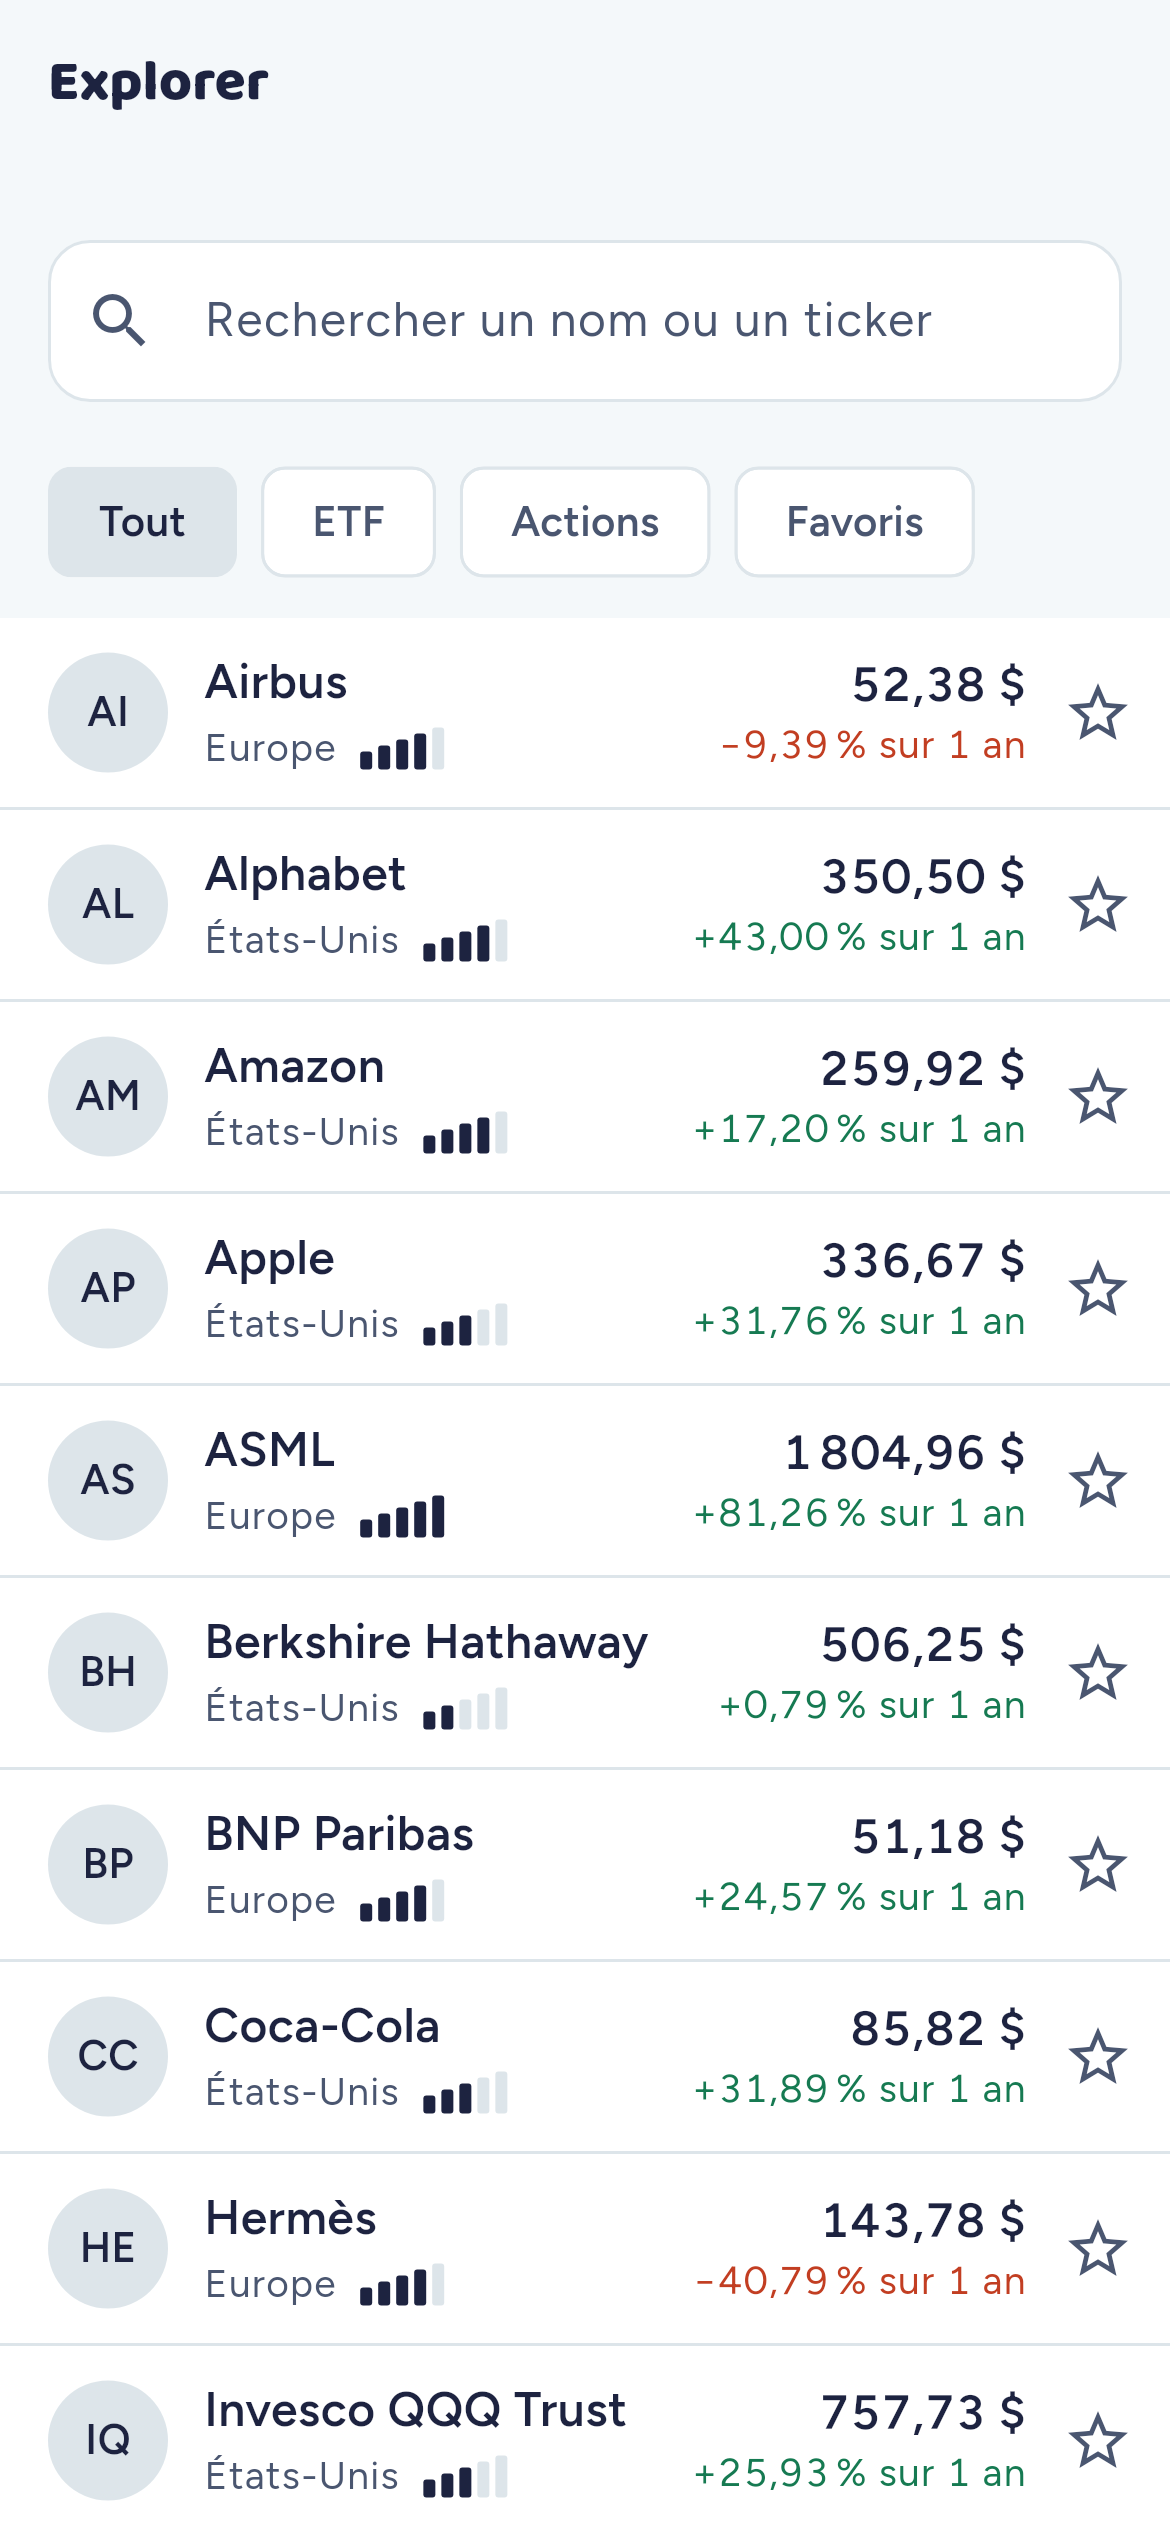
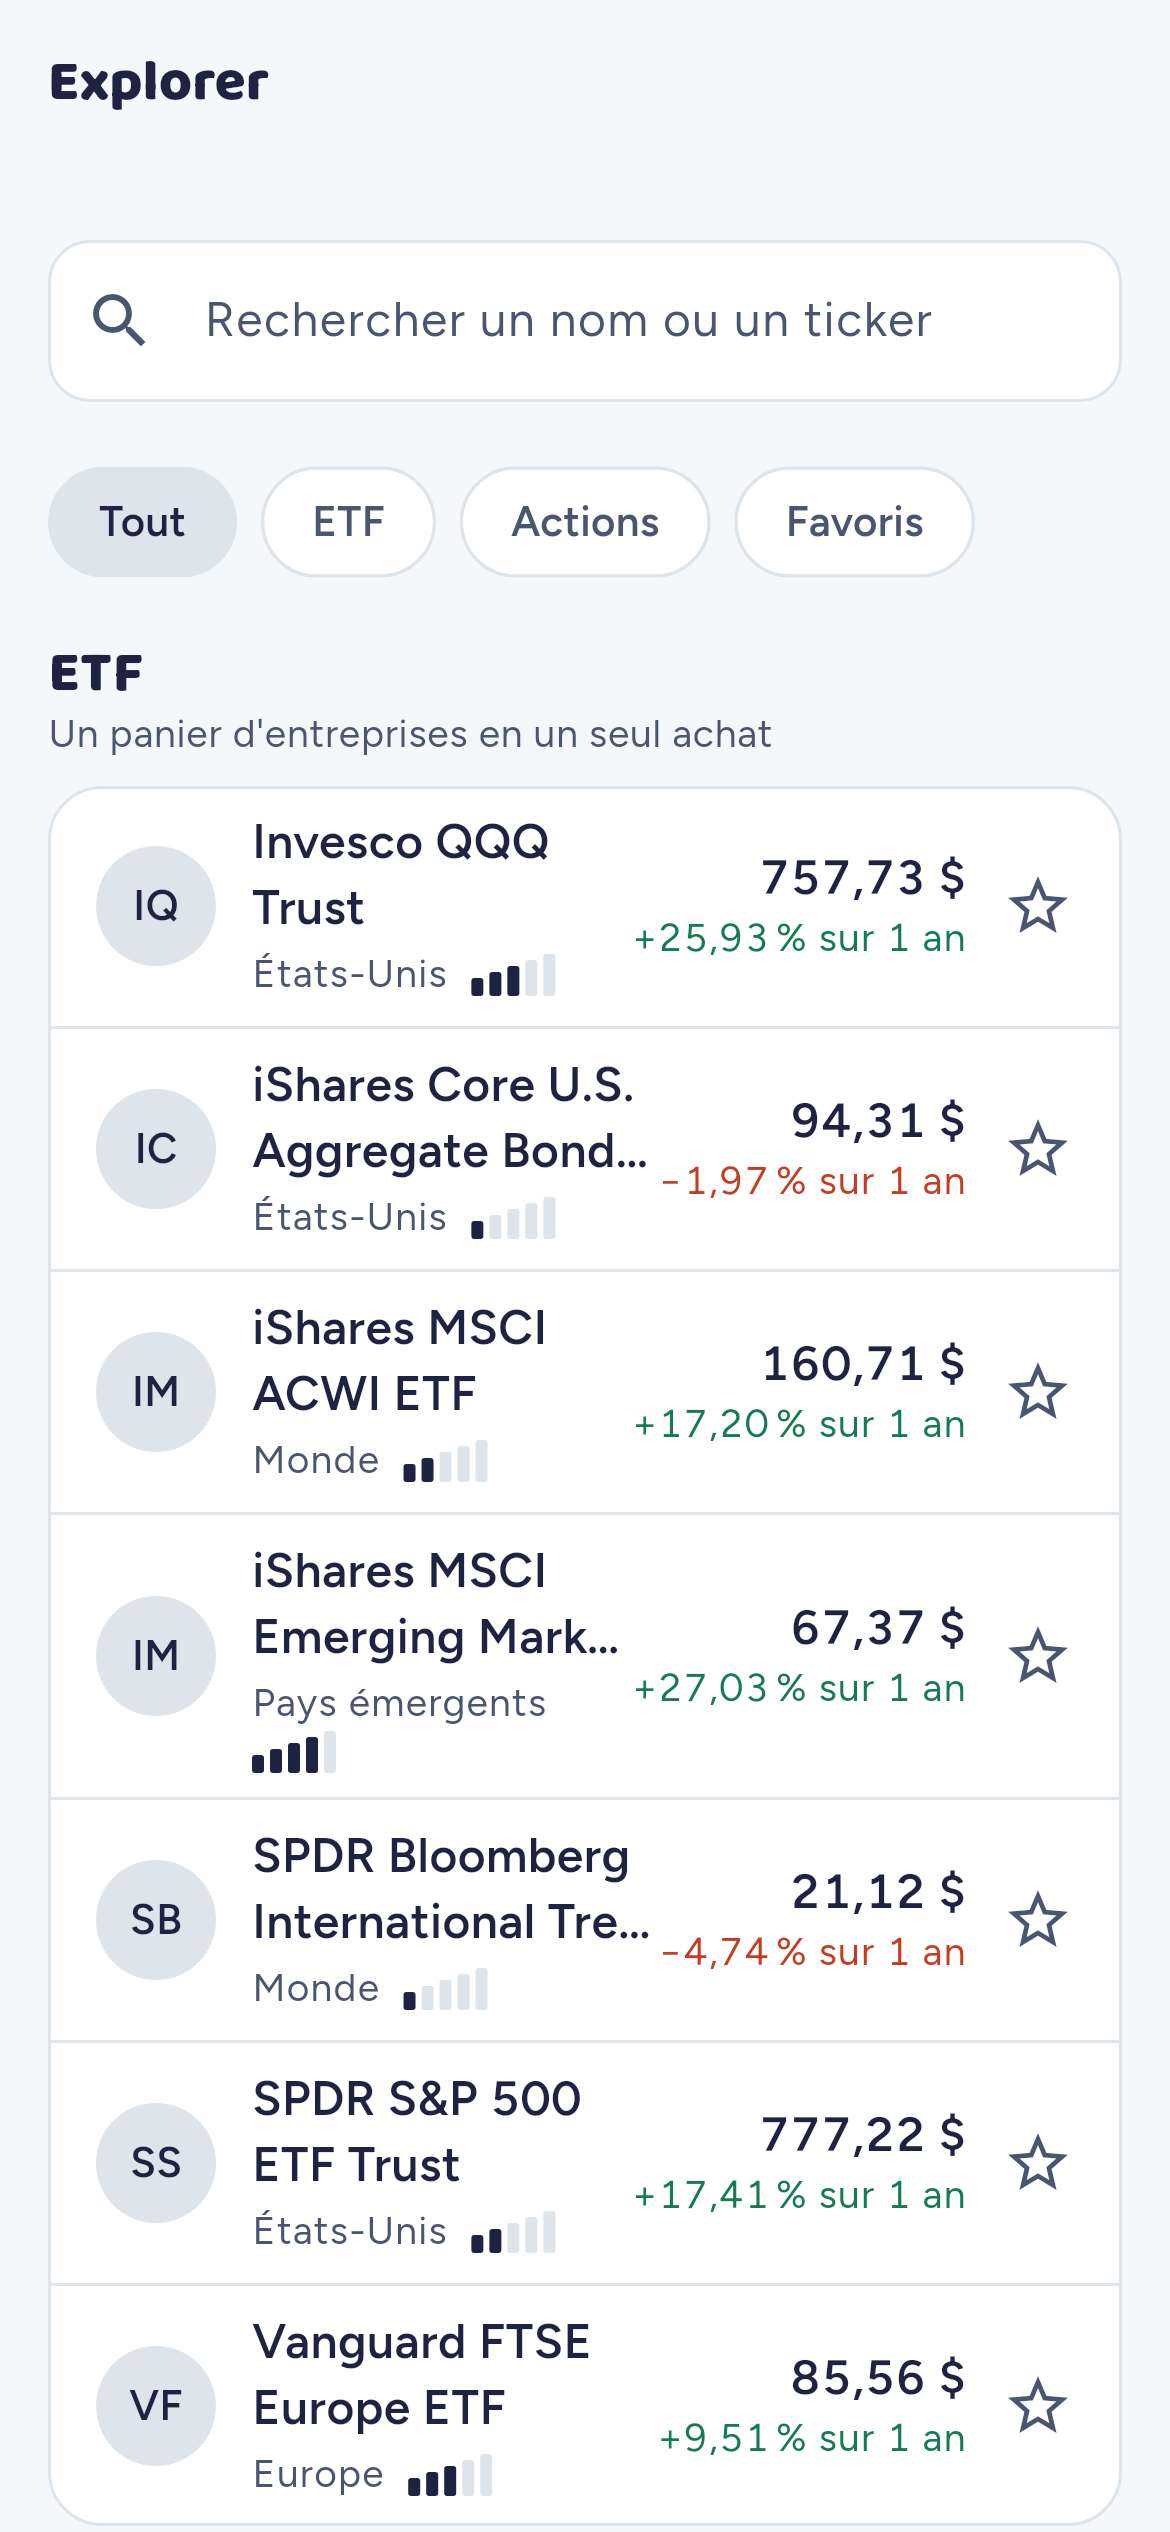
M9-23: The Explorer groups ETFs and stocks
The list reads in two flat cards, « ETF » then « Actions », each under its
section title with what it is, sorted by name inside; search and filters
narrow both and an empty group is left out (groupRows, tested first).
Rows are inset in the cards, built lazily as slivers; long names wrap to a
second line; filter chips are pills. SectionTitle takes an optional line
under the title. BRIEF §4.9 describes the layout.

diff --git a/app/lib/presentation/features/explorer/explorer_screen.dart b/app/lib/presentation/features/explorer/explorer_screen.dart
@@ -9,13 +9,17 @@ import '../../../core/l10n/formats.dart';
 import '../../../core/theme/app_theme.dart';
 import '../../../core/theme/tokens.dart';
 import '../../../core/widgets/async_states.dart';
+import '../../../domain/market/asset.dart';
 import '../../widgets/asset_avatar.dart';
 import '../../widgets/cache_status_banner.dart';
 import '../../widgets/risk_meter.dart';
+import '../../widgets/section_title.dart';
 import '../../widgets/sign_color.dart';
 
-/// The catalogue: search, filters, favorites (BRIEF §4.9). With [walletId],
-/// as of that wallet's clock: a trip sees only what existed on its day.
+/// The catalogue: search, filters, favorites (BRIEF §4.9), the ETFs then
+/// the stocks in flat cards, each under its title and what it is (artboard
+/// Explore-A). With [walletId], as of that wallet's clock: a trip sees only
+/// what existed on its day.
 class ExplorerScreen extends ConsumerStatefulWidget {
   const ExplorerScreen({super.key, this.walletId});
 
@@ -109,6 +113,7 @@ class _ExplorerScreenState extends ConsumerState<ExplorerScreen> {
                   Padding(
                     padding: const EdgeInsets.only(right: AppSpace.x2),
                     child: ChoiceChip(
+                      shape: const StadiumBorder(),
                       label: Text(label),
                       selected: _filter == filter,
                       showCheckmark: false,
@@ -184,27 +189,81 @@ class _List extends ConsumerWidget {
         ),
       );
     }
+    final l10n = AppLocalizations.of(context);
+    // The flat card's look, around rows built as they scroll in.
+    final card = ShapeDecoration(
+      color: AppColors.surface,
+      shape: Theme.of(context).cardTheme.shape!,
+    );
+    const corner = Radius.circular(AppShape.flatCardRadius);
     return RefreshIndicator(
       onRefresh: onRefresh,
-      child: ListView.builder(
-        padding: const EdgeInsets.only(bottom: AppSpace.screenPadding),
-        itemCount: rows.length,
-        itemBuilder: (context, i) => _Row(
-          rows[i],
-          favorite: favorites.contains(rows[i].asset.id),
-          walletId: walletId,
-        ),
+      child: CustomScrollView(
+        slivers: [
+          SliverPadding(
+            padding: const EdgeInsets.fromLTRB(
+              AppSpace.screenPadding,
+              0,
+              AppSpace.screenPadding,
+              AppSpace.screenPadding,
+            ),
+            sliver: SliverMainAxisGroup(
+              slivers: [
+                for (final (i, (type, group)) in groupRows(rows).indexed) ...[
+                  SliverToBoxAdapter(
+                    child: switch (type) {
+                      AssetType.etf => SectionTitle(
+                        l10n.explorer_filter_etfs,
+                        line: l10n.explorer_etfs_line,
+                        top: i == 0 ? AppSpace.x2 : AppSpace.x4,
+                      ),
+                      AssetType.stock => SectionTitle(
+                        l10n.explorer_filter_stocks,
+                        line: l10n.explorer_stocks_line,
+                        top: i == 0 ? AppSpace.x2 : AppSpace.x4,
+                      ),
+                    },
+                  ),
+                  DecoratedSliver(
+                    decoration: card,
+                    sliver: SliverList.separated(
+                      itemCount: group.length,
+                      separatorBuilder: (_, _) => const Divider(height: 1),
+                      itemBuilder: (context, j) => _Row(
+                        group[j],
+                        favorite: favorites.contains(group[j].asset.id),
+                        walletId: walletId,
+                        corners: BorderRadius.vertical(
+                          top: j == 0 ? corner : Radius.zero,
+                          bottom: j == group.length - 1 ? corner : Radius.zero,
+                        ),
+                      ),
+                    ),
+                  ),
+                ],
+              ],
+            ),
+          ),
+        ],
       ),
     );
   }
 }
 
 class _Row extends ConsumerWidget {
-  const _Row(this.row, {required this.favorite, required this.walletId});
+  const _Row(
+    this.row, {
+    required this.favorite,
+    required this.walletId,
+    required this.corners,
+  });
 
   final ExplorerRow row;
   final bool favorite;
   final String? walletId;
+
+  /// The card's rounded corners this row sits in, so its ink keeps to them.
+  final BorderRadius corners;
 
   @override
   Widget build(BuildContext context, WidgetRef ref) {
@@ -222,18 +281,18 @@ class _Row extends ConsumerWidget {
       final other => other,
     };
 
+    // Its own see-through material: the card is painted under the list, so
+    // ink drawn on the screen's material would be hidden by it.
     return Material(
-      color: AppColors.surface,
+      type: MaterialType.transparency,
       child: InkWell(
+        borderRadius: corners,
         onTap: () => context.push(
           '/asset/${asset.id}${walletId == null ? '' : '?wallet=$walletId'}',
         ),
         child: Container(
           constraints: const BoxConstraints(minHeight: 64),
-          padding: const EdgeInsets.only(left: AppSpace.screenPadding),
-          decoration: const BoxDecoration(
-            border: Border(bottom: BorderSide(color: AppColors.line)),
-          ),
+          padding: const EdgeInsets.only(left: AppSpace.x4, right: AppSpace.x1),
           child: Row(
             children: [
               AssetAvatar(asset.name),
@@ -247,7 +306,7 @@ class _Row extends ConsumerWidget {
                       Text(
                         asset.name,
                         style: text.titleMedium,
-                        maxLines: 1,
+                        maxLines: 2,
                         overflow: TextOverflow.ellipsis,
                       ),
                       const SizedBox(height: 2),

diff --git a/app/test/presentation/features/explorer_screen_test.dart b/app/test/presentation/features/explorer_screen_test.dart
@@ -112,6 +112,49 @@ void main() {
     await unmount(tester);
   });
 
+  testWidgets('ETFs then stocks, each under its title and what it is', (
+    tester,
+  ) async {
+    await show(tester, catalogue);
+    Finder inList(String text) => find.descendant(
+      of: find.byType(CustomScrollView),
+      matching: find.text(text),
+    );
+    expect(inList("Un panier d'entreprises en un seul achat"), findsOneWidget);
+    expect(
+      inList(
+        'Une seule entreprise$nnbsp: plus de potentiel, plus de secousses',
+      ),
+      findsOneWidget,
+    );
+    final tops = [
+      for (final text in ['ETF', 'ETF Monde', 'Actions', 'Apple', 'Hermès'])
+        tester.getTopLeft(inList(text)).dy,
+    ];
+    expect(tops, orderedEquals([...tops]..sort()));
+
+    // Filters and search narrow both groups; one left empty is not shown.
+    await tester.tap(find.widgetWithText(ChoiceChip, 'Actions'));
+    await tester.pumpAndSettle();
+    expect(inList('ETF'), findsNothing);
+    expect(inList('Actions'), findsOneWidget);
+    await tester.tap(find.widgetWithText(ChoiceChip, 'Tout'));
+    await tester.pumpAndSettle();
+    await tester.enterText(find.byType(TextField), 'monde');
+    await tester.pump();
+    expect(inList('ETF'), findsOneWidget);
+    expect(inList('Actions'), findsNothing);
+    await unmount(tester);
+  });
+
+  testWidgets('filter chips are pills', (tester) async {
+    await show(tester, catalogue);
+    for (final chip in tester.widgetList<ChoiceChip>(find.byType(ChoiceChip))) {
+      expect(chip.shape, isA<StadiumBorder>());
+    }
+    await unmount(tester);
+  });
+
   testWidgets('search ignores accents; nothing found says so', (tester) async {
     await show(tester, catalogue);
     await tester.enterText(find.byType(TextField), 'hermes');
@@ -146,7 +189,10 @@ void main() {
 
     await tester.tap(find.widgetWithText(ChoiceChip, 'Tout'));
     await tester.pumpAndSettle();
-    final star = find.byTooltip('Ajouter aux favoris').first;
+    final star = find.descendant(
+      of: find.ancestor(of: find.text('Apple'), matching: find.byType(InkWell)),
+      matching: find.byTooltip('Ajouter aux favoris'),
+    );
     final button = find.ancestor(of: star, matching: find.byType(IconButton));
     expect(tester.getSize(button).width, greaterThanOrEqualTo(44));
     expect(tester.getSize(button).height, greaterThanOrEqualTo(44));
@@ -181,7 +227,7 @@ void main() {
       find.text('Actif 59'),
       600,
       scrollable: find.descendant(
-        of: find.byType(ListView),
+        of: find.byType(CustomScrollView),
         matching: find.byType(Scrollable),
       ),
     );

diff --git a/app/test/application/explorer/explorer_test.dart b/app/test/application/explorer/explorer_test.dart
@@ -184,6 +184,36 @@ void main() {
       ]);
       expect(ids('nv', ExplorerFilter.favorites, {'world'}), isEmpty);
     });
+
+    /// Each group as « type: ids ».
+    List<String> groups(List<ExplorerRow> rows) => [
+      for (final (type, group) in groupRows(rows))
+        '${type.name}: ${group.map((r) => r.asset.id).join(' ')}',
+    ];
+
+    test('ETFs then stocks, each in the given order', () {
+      expect(groups(rows), [
+        'etf: world',
+        'stock: hermes loreal coca-cola nvidia',
+      ]);
+      // ETFs come first even listed after the stocks.
+      expect(groups(rows.reversed.toList()), [
+        'etf: world',
+        'stock: nvidia coca-cola loreal hermes',
+      ]);
+    });
+
+    test('a group with nothing left is not there', () {
+      final hermes = filterRows(
+        rows,
+        query: 'hermes',
+        filter: ExplorerFilter.all,
+        favorites: const {},
+      );
+      expect(groups(hermes), ['stock: hermes']);
+      expect(groups([rows.first]), ['etf: world']);
+      expect(groupRows(const []), isEmpty);
+    });
   });
 
   group('rows provider', () {

diff --git a/app/lib/presentation/widgets/section_title.dart b/app/lib/presentation/widgets/section_title.dart
@@ -7,19 +7,27 @@ import '../../core/theme/tokens.dart';
 /// flat card, so a screen reads by its sections rather than as a column of
 /// identical cards.
 class SectionTitle extends StatelessWidget {
-  const SectionTitle(this.title, {super.key, this.top = 0});
+  const SectionTitle(this.title, {super.key, this.top = 0, this.line});
 
   final String title;
 
   /// Room above it, for a title that opens a section among others.
   final double top;
 
+  /// A line under the title saying what the section holds.
+  final String? line;
+
   @override
   Widget build(BuildContext context) => Padding(
     padding: EdgeInsets.only(top: top, bottom: AppSpace.x2),
-    child: Semantics(
-      header: true,
-      child: Text(title, style: AppText.titleSmall),
+    child: Column(
+      crossAxisAlignment: CrossAxisAlignment.stretch,
+      mainAxisSize: MainAxisSize.min,
+      children: [
+        Semantics(header: true, child: Text(title, style: AppText.titleSmall)),
+        if (line case final line?)
+          Text(line, style: AppText.caption.copyWith(color: AppColors.muted)),
+      ],
     ),
   );
 }

diff --git a/app/lib/application/explorer/explorer.dart b/app/lib/application/explorer/explorer.dart
@@ -111,6 +111,13 @@ List<ExplorerRow> filterRows(
   ];
 }
 
+/// [rows] in two groups, ETFs then stocks, each in the order given; a group
+/// with no row is left out (artboard Explore-A).
+List<(AssetType, List<ExplorerRow>)> groupRows(List<ExplorerRow> rows) => [
+  for (final type in const [AssetType.etf, AssetType.stock])
+    (type, rows.where((row) => row.asset.type == type).toList()),
+]..removeWhere((group) => group.$2.isEmpty);
+
 /// Lower case, accents folded, letters and digits only: « L'Oréal » and
 /// "loreal" give the same key.
 String searchKey(String text) {

diff --git a/docs/BRIEF.md b/docs/BRIEF.md
@@ -567,6 +567,11 @@ voyage » (trip). In a trip, an optional « Pourquoi ? » saves the order to the
   cannot be read keeps its name without figures; the list fails only when no row has any.
 - Offline banner « Hors connexion. Tu vois les cours du {date}, {heure}. » + Réessayer.
 - In a trip, the list is filtered by availability and every value is as of the trip date.
+- Layout (decided 2026-10-24, artboard `Explore-A`): the list reads in two groups, « ETF » then « Actions »,
+  each under its section title (`SectionTitle`) with what it is (« Un panier d'entreprises en un seul achat »,
+  « Une seule entreprise : plus de potentiel, plus de secousses »), its rows in a flat card, sorted by name
+  inside. Search and filters narrow both groups; a group with nothing left is not shown. Filter chips are
+  pills; a long name wraps to a second line.
 
 ### 4.10 DCA simulator
 
